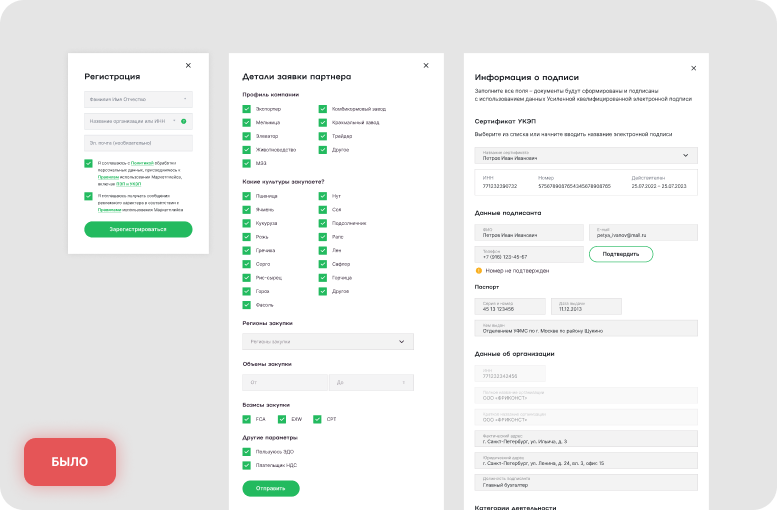
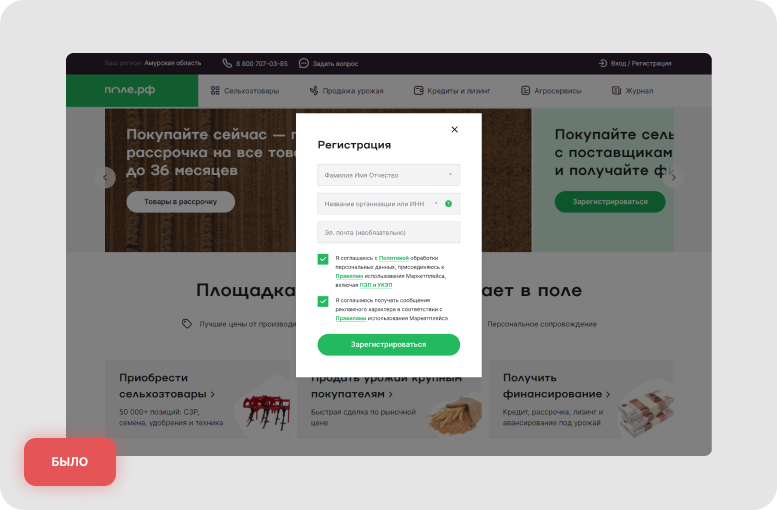
Update case-03 copy and refresh reg-before images

diff --git a/case-03.html b/case-03.html
@@ -234,10 +234,10 @@
               <section class="case-content__section" aria-label="Мой вклад">
                 <h2 class="case-content__title">Мой вклад</h2>
                 <p class="case-content__text">
-                  Нашёл барьеры в регистрации — во флоу, вебвизоре, тестах и интервью — и
-                  пересобрал сценарий: отдельная страница вместо модалок, проще шаги и
-                  валидация. В 2026 — ещё одно упрощение под объединение ролей на платформе и
-                  переход на дизайн<span class="type-sign">-</span>систему.
+                  Нашёл и устранил барьеры в регистрации: на основе анализа флоу, вебвизора,
+                  тестов и интервью переработал сценарий — отдельная страница вместо модалок,
+                  более простые шаги и валидация. В 2026 году — дальнейшее упрощение с учётом
+                  объединения ролей и перехода на дизайн<span class="type-sign">-</span>систему.
                 </p>
               </section>
 
@@ -255,6 +255,11 @@
                     Второй этап был завершён в 2026 году, когда система регистрации радикально
                     упростилась из-за объединения всех ролей на платформе. Также на этом этапе
                     регистрацию перевели на новые компоненты из дизайн-системы.
+                  </li>
+                  <li>
+                    На старте редизайна регистрации на «поле.рф» для разных ролей пользователей
+                    действовали отдельные сценарии. Приоритет отдали роли агрария — она самая
+                    популярная, а её флоу проще масштабировать.
                   </li>
                 </ul>
                 <div
@@ -634,10 +639,6 @@
                           В итоге мы финализировали две концепции и подготовили два детальных
                           интерактивных прототипа в Figma.
                         </p>
-                        <p class="case-accordion__body-text">
-                          С учетом мнений РО была проведена работа над макетами и сделаны 2
-                          окончательных варианта.
-                        </p>
                         <img
                           class="case-accordion__img"
                           src="./src/assets/img/cases/universal/accordeon-image-19.png"
@@ -647,6 +648,11 @@
                           loading="lazy"
                           decoding="async"
                         />
+                        <p class="case-accordion__body-text">
+                          На одном из созвонов с PM мы решили, что стоит сделать концептуальный
+                          вариант с боковым степпером, который на ранних этапах согласования не был
+                          принят из-за больших ресурсов на создание и поддержание.
+                        </p>
                         <img
                           class="case-accordion__img"
                           src="./src/assets/img/cases/universal/accordeon-image-20.png"
@@ -728,12 +734,6 @@
                           По итогам интервью мы остановились на одном варианте и доработали все
                           макеты в Figma. Полный пользовательский флоу был готов уже через неделю, а
                           ещё примерно полторы недели ушли на его груминг вместе с разработчиками.
-                        </p>
-                        <p class="case-accordion__body-text">
-                          Этот этап растянулся на полтора месяца, поскольку собрать всех в одно время
-                          оказалось довольно сложно, и нам пришлось подстраиваться под графики
-                          респондентов, нередко проводя интервью в нерабочие часы, а иногда даже за
-                          полночь.
                         </p>
                         <img
                           class="case-accordion__img"
@@ -851,7 +851,7 @@
                       id="ba-toggle-reg-panel-before"
                       role="tabpanel"
                       aria-labelledby="ba-toggle-reg-before"
-                      src="./src/assets/img/cases/case-03-reg-before.png"
+                      src="./src/assets/img/cases/case-03-reg-before.png?v=2"
                       alt="Регистрация до редизайна: модальные окна"
                       width="777"
                       height="510"
@@ -895,7 +895,7 @@
                     <div class="ba-slider__before" data-ba-before>
                       <img
                         class="ba-slider__img ba-slider__img--before"
-                        src="./src/assets/img/cases/case-03-reg-before-mobile.png"
+                        src="./src/assets/img/cases/case-03-reg-before-mobile.png?v=2"
                         alt="Регистрация до редизайна: модальные окна"
                         width="777"
                         height="510"
